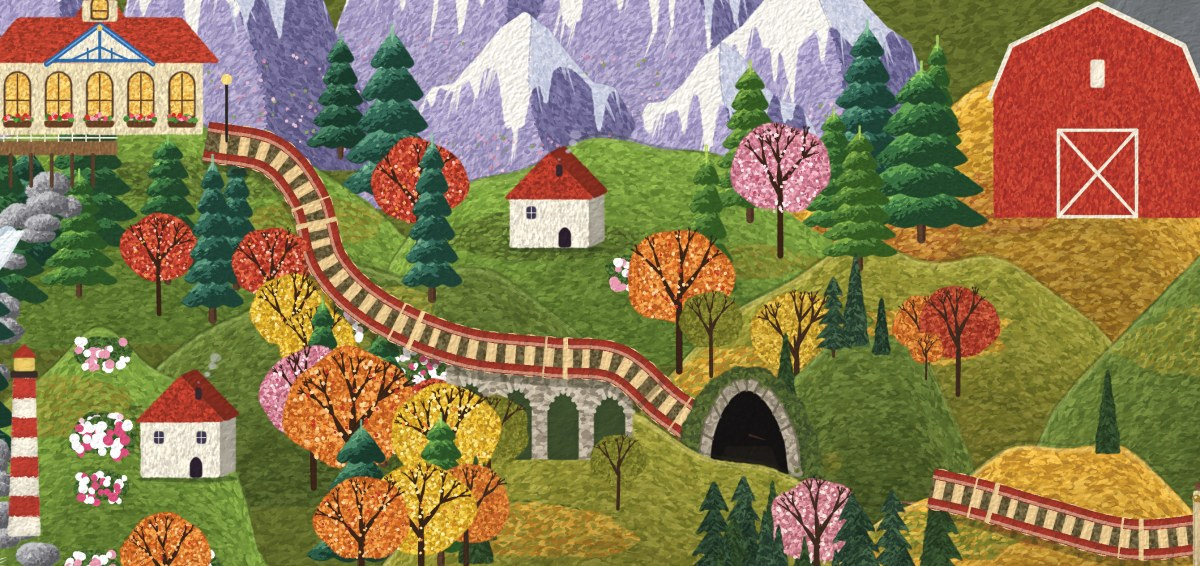
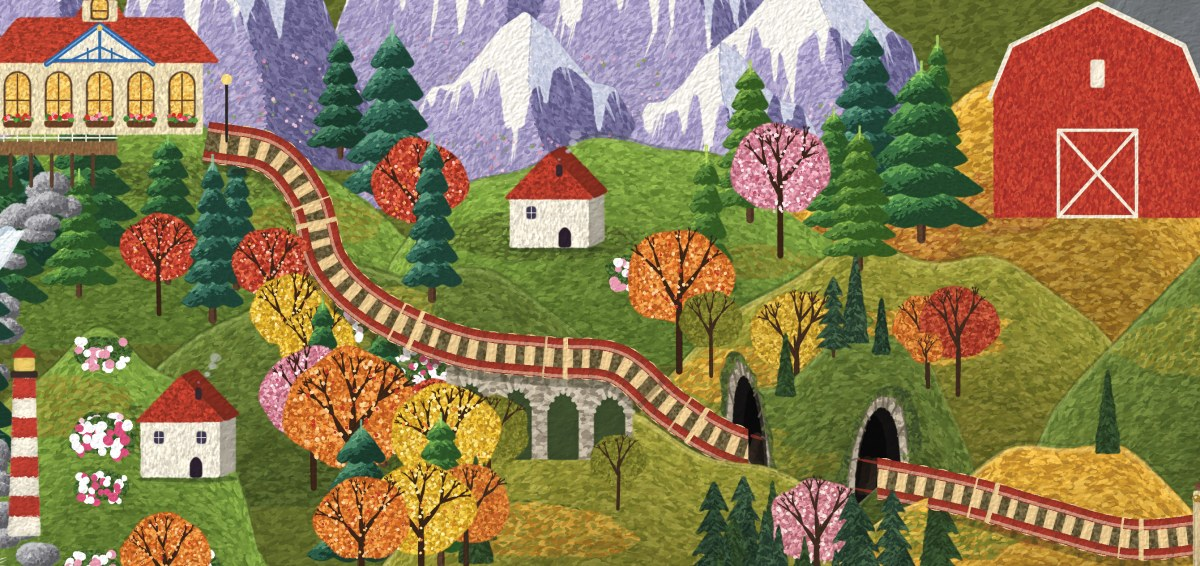
Northwest tunnel: two portals turned to face along the track; the train goes into one and out of the other
The scene is split at the vertical lines where the track meets each portal face (back part behind the
track, front part in front of it, hard-edged masks); rails fade into each mouth; the train darkens going
in and coming out. Tiles: 1x 34/35 and 2x 18/20 still pixel-identical to the prototype.

Claude-Session: https://claude.ai/code/session_017tNAHgSCzTbES1SzX2uUW2

Changed region(s): [[0.555, 0.6007, 0.8017, 0.9011], [0.7092, 0.6007, 0.74, 0.6307]]

diff --git a/usmap/engine10/viewer_nw_src.html b/usmap/engine10/viewer_nw_src.html
@@ -131,7 +131,7 @@ button[aria-pressed="true"]{background:var(--chip-on);color:var(--chip-on-ink);b
       <ul>
         <li><strong>The station stop.</strong> The red train creeps out of the Northwest Harbor hall, eases to a stop at the platform, idles with a little steam, chuffs, and pulls away. <strong>Watch the departure</strong> starts it again.</li>
         <li><strong>The viaduct.</strong> The train runs along the deck, and the autumn trees in front of the arches stay in front of it.</li>
-        <li><strong>The tunnel.</strong> New in this test: a small wooded knoll with a stone portal, just east of the viaduct. The train darkens as it enters, its smoke stops and drifts out of the mouth, and it comes back into view from behind the knoll's shoulder.</li>
+        <li><strong>The tunnel.</strong> New in this test: a small wooded knoll with two stone portals, just east of the viaduct, each turned to face along the line. The train runs into the west mouth, darkening in its shadow, its smoke stops and drifts back out, and it comes out of the east mouth into the light.</li>
         <li><strong>The station.</strong> Hover over the Northwest Harbor hall and click it. The card stays with the station as you pan and zoom.</li>
       </ul>
     </section>
@@ -140,7 +140,7 @@ button[aria-pressed="true"]{background:var(--chip-on);color:var(--chip-on-ink);b
       <ul>
         <li>One new piece of artwork: the knoll and its portal, painted by the same engine with the map's own hill, tree and stone painters.</li>
         <li>Only the tiles that hold the knoll were repainted. At 1&times;, 34 of the 35 map tiles are pixel-identical to the original prototype; in Toy Town's 2&times; layer, 18 of 20 are. The 3 changed tiles all contain the knoll.</li>
-        <li>No heightmap. The tunnel works through the existing depth order: the knoll's face is painted just in front of the track, so the occluder hides the train inside it.</li>
+        <li>No heightmap. The tunnel works through the existing depth order: between the two portal faces the knoll is painted just in front of the track, so the occluder hides the train inside it. The split follows the line where the track meets each face.</li>
       </ul>
     </section>
     <section>
@@ -459,7 +459,8 @@ button[aria-pressed="true"]{background:var(--chip-on);color:var(--chip-on-ink);b
         const flip = dx < 0, rot = flip ? Math.atan2(-dy, -dx) : Math.atan2(dy, dx);
         drawPivot(v.sprite, x, y, rot, flip ? -1 : 1, 1, 0);
         if (isRed) {                                                  // into the shadow of the portal
-          const sh = smooth(NW.portal_s - 34 * K, NW.portal_s + 4 * K, sv) * (1 - smooth(NW.portal_s + 30 * K, NW.portal_s + 60 * K, sv)) * .62;
+          const sh = Math.max(smooth(NW.portal_s - 34 * K, NW.portal_s + 4 * K, sv) * (1 - smooth(NW.portal_s + 30 * K, NW.portal_s + 60 * K, sv)),
+                              (1 - smooth(NW.exit_s - 4 * K, NW.exit_s + 34 * K, sv)) * smooth(NW.exit_s - 60 * K, NW.exit_s - 30 * K, sv)) * .62;   // into the shadow of a portal, and out of it
           if (sh > .01) { const dk = darkOf(IMG[v.sprite.file]); if (dk) { ctx.globalAlpha = sh; drawPivotImg(v.sprite, dk, x, y, rot, flip ? -1 : 1); ctx.globalAlpha = 1; } }
         }
         drawn.push([x, y]);

diff --git a/usmap/engine10/tunnel10.py b/usmap/engine10/tunnel10.py
@@ -28,12 +28,39 @@ def _top_at(p, x):
     top = knoll_poly(p)[:40]
     return float(np.interp(x, top[:, 0], top[:, 1]))
 
+def _span_clip(c, x0, x1, ytop, ybot, feather):
+    """A soft clip mask (canvas pixels) for x0..x1, ytop..ybot in map units."""
+    import cv2
+    m = c.mask([(x0, ytop), (x1, ytop), (x1, ybot), (x0, ybot)], wob=0, rough=0)
+    if m is None: return None
+    x, y, mm = m
+    mm = cv2.GaussianBlur(mm, (0, 0), feather * c.k)
+    full = np.zeros((c.H, c.W), np.float32); h, w = mm.shape; full[y:y + h, x:x + w] = mm
+    return full
+
+def _unit(v):
+    v = np.asarray(v, float); return v / (np.hypot(*v) + 1e-9)
+
+def portal_frame(P, i, side, face):
+    """Where a portal stands and which way it faces. Its face is a vertical plane across the track at P[i], turned to
+    face along the line (toward the oncoming train at the entrance, toward the open country at the exit) and a little
+    toward the viewer, so the opening reads as a mouth the train runs into, not a doorway it runs past.
+    Returns foot (track centre at the face), d (the face's direction on the ground, pointing toward the viewer),
+    nrm (the way the face looks), t (track direction)."""
+    t = _unit(P[min(i + 4, len(P) - 1)] - P[max(i - 4, 0)])
+    nrm = _unit((-t if side == 'in' else t) + np.array([0.0, face]))
+    d = np.array([-nrm[1], nrm[0]]); d = d if d[1] > 0 else -d
+    return np.array(P[i], float), d, nrm, t
+
 def front_span(c, p, routes):
-    """The part of the knoll that stands in front of the track: from just inside the portal eastward, from above the
-    train down to the knoll's foot. A soft mask in canvas pixels."""
-    P = routes['red']['P']; iL = p['portal']
-    x0 = float(P[iL][0]) - (p['mouth_w'] / 2 + p['ring']) * .55
-    return _span_clip(c, x0, p['cx'] + p['w'] / 2 + 30, float(P[iL][1]) - p['cover'], p['base'] + 10, .6)
+    """The part of the scene in front of the hidden track: between the vertical lines where the track meets the two
+    portal faces (the train's own plane meets a vertical face along a vertical line), from above the train down to
+    the knoll's foot. A soft-edged mask in canvas pixels."""
+    P = routes['red']['P']; iL, iR = p['portals']
+    ys = P[iL:iR + 1, 1]
+    m = _span_clip(c, float(P[iL][0]), float(P[iR][0]), float(ys.min()) - p['cover'], float(ys.max()) + 16, .01)
+    # hard-edged on purpose: the two halves are painted by different elements, and a soft edge would leave a pale line
+    return None if m is None else (m > .5).astype(np.float32)
 
 def _clipped(c, mask, fn):
     """Run a painter with every clip it sets intersected with mask."""
@@ -47,15 +74,19 @@ def _clipped(c, mask, fn):
         del c.set_clip
         c.set_clip(None)
 
+def _scene(c, p, routes):
+    U3.paint_hill3(p['cx'], p['base'], p['w'], p['h'], p['kind'], p['seed_hill'])
+    P = routes['red']['P']
+    for i, side in zip(p['portals'], ('in', 'out')): portal(c, P, i, side, p)
+
 def knoll(p, routes):
-    """The knoll behind the track, everywhere except the part that stands in front of it (painted by tunnel()).
-    Splitting it this way matters: the engine records an element's depth only where it changes a pixel, so the front
-    part must not be painted twice over itself, or its pixels would keep the back depth and the occluder miss them."""
+    """Behind the track: the knoll and both portals, everywhere except the span in front of the hidden track.
+    Each pixel is painted by exactly one of the two elements: the engine records an element's depth only where it
+    changes a pixel, so painting the same thing twice would leave the front at the back depth."""
     c = B.c
     span = front_span(c, p, routes)
-    paint = lambda: U3.paint_hill3(p['cx'], p['base'], p['w'], p['h'], p['kind'], p['seed_hill'])
-    if span is None: paint()
-    else: _clipped(c, 1 - span, paint)
+    if span is None: _scene(c, p, routes)
+    else: _clipped(c, 1 - span, lambda: _scene(c, p, routes))
 
 def knoll_trees(p):
     for j, (dx, hh, kd) in enumerate(p['trees']):
@@ -65,78 +96,75 @@ def knoll_trees(p):
         elif kd == 'lfir': U2.layered_fir(x, y, hh, sd)
         else: U2.big_tree(x, y, hh, kd, sd)
 
-def _span_clip(c, x0, x1, ytop, ybot, feather):
-    """A soft clip mask (canvas pixels) for x0..x1, ytop..ybot in map units."""
-    poly = [(x0, ytop), (x1, ytop), (x1, ybot), (x0, ybot)]
-    m = c.mask(poly, wob=0, rough=0)
-    if m is None: return None
-    x, y, mm = m
-    import cv2
-    mm = cv2.GaussianBlur(mm, (0, 0), feather * c.k)
-    full = np.zeros((c.H, c.W), np.float32); h, w = mm.shape; full[y:y + h, x:x + w] = mm
-    return full
-
 def tunnel(p, routes):
-    """The knoll's face in front of the track, from the portal eastward, then the portal.
-    The train enters the portal and comes back into view from behind the knoll's eastern shoulder."""
+    """In front of the track: the same knoll and portals inside the span (so the train is hidden between the two
+    faces and goes into each mouth along the face's own line), then the trees on the knoll's crown."""
     c = B.c
-    P = routes['red']['P']; iL = p['portal']
     span = front_span(c, p, routes)
-    if span is not None:
-        _clipped(c, span, lambda: U3.paint_hill3(p['cx'], p['base'], p['w'], p['h'], p['kind'], p['seed_hill']))
+    if span is not None: _clipped(c, span, lambda: _scene(c, p, routes))
     knoll_trees(p)
-    portal(c, P, iL, p)
 
-def portal(c, P, i, p):
-    """In the map's own portal style (usmap3.portal3): a mossy cutting, a rough-stone arch, a deep mouth with a
-    lighter floor, radial joints; sized for the train, a little irregular, the track running into it."""
-    r = np.random.RandomState(p['seed_hill'] + 11)
-    x, y = float(P[i][0]) + p.get('dx', 0.0), float(P[i][1]) + U3.TW * 1.04
-    t = P[min(i + 4, len(P) - 1)] - P[max(i - 4, 0)]; t = t / (np.hypot(*t) + 1e-9)
+def portal(c, P, i, side, p):
+    """A stone portal in the map's own style (usmap3.portal3: mossy cutting, rough-stone arch, radial joints, deep
+    mouth), standing on a face turned along the track, so its arch is drawn foreshortened on that face."""
+    r = np.random.RandomState(p['seed_hill'] + (11 if side == 'in' else 29))
+    foot, d, nrm, t = portal_frame(P, i, side, p['face'])
+    foot = foot + [0, U3.TW * .35]
     iw, ih, ring = p['mouth_w'], p['mouth_h'], p['ring']
-    tilt = p.get('tilt', 1.5)                                      # the right side sits a little lower: hand-set, not drawn
-    def prof(w, h, n=26, jit=0.0, pw=.75):
-        out = []
+    def prof(w, h, n=26, jit=0.0, pw=.75, ctr=None, dy=0.0):
+        cf = foot if ctr is None else ctr; out = []
         for u in np.linspace(0, 1, n):
-            px = x - w / 2 + w * u; py = y + tilt * u - math.sin(u * math.pi) ** pw * h * (1 + .03 * math.sin(u * 5.0))
-            if jit: px += r.uniform(-jit, jit); py += r.uniform(-jit, jit)
-            out.append((px, py))
+            b = cf + d * (u - .5) * w
+            hh = math.sin(u * math.pi) ** pw * h * (1 + .03 * math.sin(u * 5.0 + (1 if side == 'in' else 3)))
+            q = b + [0, dy - hh]
+            if jit: q = q + r.uniform(-jit, jit, 2)
+            out.append((float(q[0]), float(q[1])))
         return out
-    feet = lambda w, dy=2.0: [(x + w / 2 + 2, y + tilt + dy), (x - w / 2 - 2, y + dy)]
+    def base(w, dy=2.5, ctr=None):
+        cf = foot if ctr is None else ctr
+        a, b = cf + d * w / 2 + [0, dy], cf - d * w / 2 + [0, dy]; return [(float(a[0]), float(a[1])), (float(b[0]), float(b[1]))]
     # the cutting: darker, mossy ground the portal is set into
-    cw, chh = iw + 2 * ring + 26, ih + ring + 7
-    cm = c.area(prof(cw, chh, jit=1.2, pw=.42) + feet(cw, 3), '#3a4a2a', wob=1.1, rough=1.2, edge_dark=.04, a=.78, seed=r.randint(1 << 30))
+    cw, chh = iw + 2 * ring + 22, ih + ring + 5
+    cm = c.area(prof(cw, chh, jit=1.1, pw=.5) + base(cw, 4), '#3a4a2a', wob=1.1, rough=1.2, edge_dark=.04, a=.78, seed=r.randint(1 << 30))
     if cm is not None:
         c.stip(cm, pal_fn(['#45562e', '#3a4a2a', '#56662f', '#627634']), spacing=1.5, L=3.6, w=1.8, a=.85, seed=r.randint(1 << 30), jit=1.0)
-    # the stone arch
+    # the stone arch, then the mouth with its deeper core set back into the hill
     outer = prof(iw + 2 * ring, ih + ring, jit=.6, pw=.45)
-    om = c.area(outer + feet(iw + 2 * ring), '#a89c88', wob=.3, rough=.7, edge_dark=.14, seed=r.randint(1 << 30))
+    om = c.area(outer + base(iw + 2 * ring), '#a89c88', wob=.3, rough=.7, edge_dark=.14, seed=r.randint(1 << 30))
     if om is not None:
         c.stip(om, pal_fn(['#b0a490', '#9c907c', '#c0b4a0', '#8c8270', '#a8a08c']), spacing=1.25, L=3.6, w=2.6, seed=r.randint(1 << 30), jit=1.3)
-    # the mouth, with a faint lighter floor where daylight reaches in
     inner = prof(iw, ih, n=22, pw=.5)
-    c.area(inner + feet(iw, 1.0), '#121010', wob=0, rough=.3, seed=r.randint(1 << 30))
-    c.area([(x - iw * .42, y + 1), (x + iw * .42, y + tilt + 1), (x + iw * .28, y - ih * .3), (x - iw * .28, y - ih * .3)], '#24201c', wob=0, rough=.5, a=.6)
-    # the rails run a little way into the dark
-    nrm = np.array([-t[1], t[0]]); base_pt = np.array(P[i], float)
+    c.area(inner + base(iw, 1.5), '#121010', wob=0, rough=.3, seed=r.randint(1 << 30))
+    back = foot - nrm * 5                                         # the tunnel runs back from the face
+    c.area(prof(iw * .7, ih * .82, pw=.55, ctr=back) + base(iw * .7, 1.0, ctr=back), '#070607', wob=.6, rough=.9, edge_dark=0, a=.75, seed=r.randint(1 << 30))
+    # the track runs on into the dark and fades: a few dim ties and the two rails, so it never just stops at the face
+    nr = np.array([-t[1], t[0]]); inward = t if side == 'in' else -t; P0 = np.array(P[i], float)
+    rail, tie = U3.TRACKCOL['red']
+    mm = c.mask(inner + base(iw, 1.5), wob=0, rough=0)              # only inside the mouth
+    prev = c.clipm
+    if mm is not None:
+        x_, y_, m_ = mm; full = np.zeros((c.H, c.W), np.float32); hh_, ww_ = m_.shape; full[y_:y_ + hh_, x_:x_ + ww_] = m_
+        c.clipm = full if prev is None else prev * full
+    for k_, u in enumerate((2.5, 7.5, 12.5)):
+        q = P0 + inward * u; al = .55 * (1 - u / 16)
+        c.stroke([q + nr * U3.TW * 1.05, q - nr * U3.TW * 1.05], U3.TW * .5, '#4a3a2c', a=al, dry=.15, taper=(.05, .05))
     for o in (U3.TW * .78, -U3.TW * .78):
-        a0 = base_pt + nrm * o - t * 2; a1 = a0 + t * 10
-        c.stroke([a0, a1], 1.5, '#5a3a30', a=.55, dry=.1, taper=(0, .95))
-    # radial joints between the voussoirs, and a dark line around the arch (as in portal3)
+        a0 = P0 + nr * o - inward * .5; c.stroke([a0, a0 + inward * 17], 2.2, rail, a=.62, dry=.1, taper=(0, .98))
+    c.clipm = prev
+    # radial joints, a dark line round the arch, moss over the top and at the feet
     n_in, n_out = len(inner), len(outer)
-    for u in np.linspace(.05, .95, 9) + r.uniform(-.015, .015, 9):
+    for u in np.linspace(.06, .94, 8) + r.uniform(-.015, .015, 8):
         a_ = np.array(inner[int(u * (n_in - 1))]); b_ = np.array(outer[int(u * (n_out - 1))])
-        c.stroke([a_, a_ + (b_ - a_) * .95], 1.5, '#6a6050', a=.85, dry=.1, taper=(0, 0))
-    c.stroke(outer, 1.4, '#5a5040', a=.6, dry=.2, taper=(.1, .1))
-    # moss and grass over the top of the arch and at its feet
-    for j in range(18):
+        c.stroke([a_, a_ + (b_ - a_) * .95], 1.4, '#6a6050', a=.85, dry=.1, taper=(0, 0))
+    c.stroke(outer, 1.3, '#5a5040', a=.6, dry=.2, taper=(.1, .1))
+    for j in range(16):
         q = np.array(outer[r.randint(3, n_out - 3)])
         c.stroke([q + [r.uniform(-2, 2), r.uniform(.5, 1.5)], q + [r.uniform(-1.5, 1.5), -r.uniform(1.5, 3.4)]], r.uniform(1.4, 2.3),
                  MOSS[r.randint(len(MOSS))], a=.9, dry=.3, taper=(.1, .6))
     for s_ in (-1, 1):
         for j in range(5):
-            q = (x + s_ * (iw / 2 + ring * r.uniform(.2, 1.3)), y + (tilt if s_ > 0 else 0) + r.uniform(-.5, 1.5))
-            c.stroke([q, (q[0] + r.uniform(-1.5, 1.5), q[1] - r.uniform(2, 4.5))], r.uniform(1.2, 2), MOSS[r.randint(len(MOSS))], a=.9, dry=.3, taper=(.1, .7))
+            q = foot + d * s_ * (iw / 2 + ring * r.uniform(.2, 1.2)) + [0, r.uniform(-.5, 1.5)]
+            c.stroke([q, q + [r.uniform(-1.5, 1.5), -r.uniform(2, 4.5)]], r.uniform(1.2, 2), MOSS[r.randint(len(MOSS))], a=.9, dry=.3, taper=(.1, .7))
 
 def paint(e, routes):
     if e['kind'] == 'knoll10': knoll(e['params'], routes); return True

diff --git a/usmap/engine10/nw10.py b/usmap/engine10/nw10.py
@@ -22,7 +22,7 @@ CODE = ['usmap/engine10/tunnel10.py']
 
 KNOLL = dict(cx=514.0, base=372.0, w=192.0, h=86.0, kind='moss', seed_hill=9101,
              trees=[(-16, 38, 'fir'), (12, 46, 'lfir'), (40, 34, 'fir'), (66, 28, 'orange')],
-             portal=244, cover=60.0, mouth_w=46.0, mouth_h=46.0, ring=7.0, tilt=1.5)
+             portals=[244, 292], face=0.9, cover=62.0, mouth_w=36.0, mouth_h=45.0, ring=6.5)
 
 def build_scene():
     sc = json.load(open(R.SCENE))
@@ -80,10 +80,10 @@ def finish_viewer(move=True):
     Z = C.assemble(1, None, store='f1nw', what='z')[0]
     zr = np.array([Z[int(round(y)), int(round(x))] for x, y in P])
     hid = np.nonzero(np.abs(zr - 336.25) < 1e-3)[0]
-    iL = off + KNOLL['portal']; hid = hid[hid >= iL - 4]
+    iL = off + KNOLL['portals'][0]; hid = hid[hid >= iL - 4]
     S5 = json.load(open(SCENE_NW)); Pm = np.array(S5['routes']['red']['points'])
     via = [i for i in range(len(Pm)) if 300 <= Pm[i][0] <= 410 and 100 <= i <= 230]
-    foot = Pm[KNOLL['portal']] + [0, 11.0]
+    foot = Pm[KNOLL['portals'][0]] + [0, 4.0]
     mouth = px(foot[0] + 4, foot[1] - KNOLL['mouth_h'] * .78)
     st = STATION
     nw = dict(stop_s=float(A[off + STOP_I]), dwell=DWELL, creep=CREEP, pull=PULL,
@@ -92,7 +92,7 @@ def finish_viewer(move=True):
               hit=px(st['hit'][0], st['hit'][1]) + px(st['hit'][2], st['hit'][3]), anchor=px(*st['anchor']), anchor_w=(st['hit'][2] - st['hit'][0]) * K,
               tag=px(*st['tag']), glow=px(st['glow'][0], st['glow'][1]) + [st['glow'][2] * K, st['glow'][3] * K])
     # occluder tiles along the red line from the station to past the tunnel: loaded when the page starts
-    keys = sorted({f'{int(x // 512)}_{int((y - dy) // 512)}' for x, y in P[:off + KNOLL['portal'] + 140] for dy in (0, 60 * K)})
+    keys = sorted({f'{int(x // 512)}_{int((y - dy) // 512)}' for x, y in P[:off + KNOLL['portals'][1] + 60] for dy in (0, 60 * K)})
     nw['occ_preload'] = [k_ for k_ in keys if [int(v) for v in k_.split('_')] in man['occluder']['tiles']]
     man['nw'] = nw
     print('nw', {k_: (round(v, 1) if isinstance(v, float) else v) for k_, v in nw.items() if k_ not in ('hit', 'glow')}, 'hidden points', len(hid))

diff --git a/docs/INTEGRATION.md b/docs/INTEGRATION.md
@@ -190,3 +190,23 @@ that rebuild, a hard seam appeared when zooming in.
 - at 509% zoom the train sits on the painted rails.
 
 Frames: `docs/integration_nw_*.jpg`.
+
+### Revision: portals that face along the track (9 November 2026)
+
+**Feedback:** the first portal faced the viewer, and the train slid past it instead of going in.
+
+**Change:** the knoll now has two portals, at route indices 244 (entry) and 292 (exit). Each stands on a vertical face
+across the track, turned to look along the line and slightly toward the viewer (`face` = 0.9), so its arch is drawn
+foreshortened on that face.
+
+**Why the split works.** The train's sprite lies in the vertical plane through the track, and a vertical face meets
+that plane in a vertical line through the point where the track crosses the face. So the scene is split at the two
+vertical lines through the portal feet:
+- **Between them** (element `tunnel10`, in front of the track): the knoll and the halves of both portals.
+- **Outside them** (element `knoll10`, behind the track): the rest of the knoll and the portals.
+
+As a result, the train goes into the west mouth and comes out of the east mouth exactly where the track meets each
+face. The two masks are hard-edged (a soft edge left a pale line inside the mouths). The rails and a few dim ties run
+on into each mouth and fade, clipped to the opening. In the viewer, the train darkens both going in and coming out.
+
+![Entering and leaving](integration_nw_tunnel_sequence.jpg)
